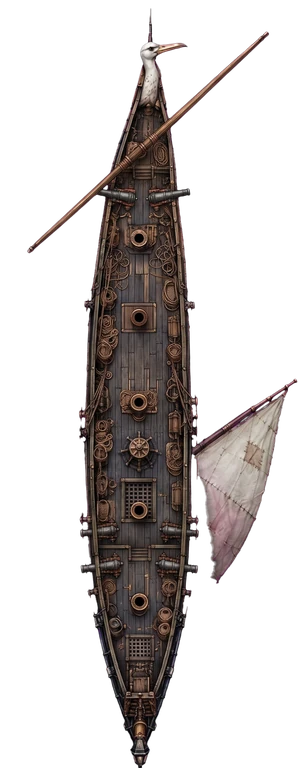
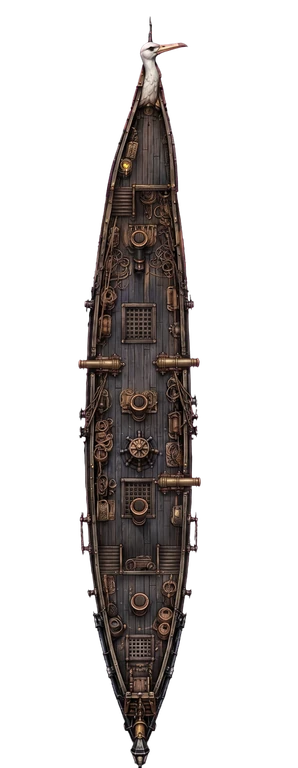
Mastless hulls: albatross_xebec re-done clean — all 107 hulls

diff --git a/shared/src/data/maststeps.ts b/shared/src/data/maststeps.ts
@@ -1,4 +1,4 @@
 // Written by tools/art/ships_nomast.py and tools/art/masts.py (2026-11-16): where each mastless hull's mast steps are
 // (fractions of its picture's height from the top, on its centreline), and each mast picture's pivot (its round top).
-export const MAST_STEPS: Record<string, number[]> = {"albatross_xebec":[0.1445,0.2148,0.3255,0.8958],"armed_fluyt":[0.3503,0.4857,0.6341],"baltimore_clipper":[0.3607,0.6263],"barque":[0.457,0.6055],"black_corsair":[0.3776,0.5208,0.668],"bomb_ketch":[0.3021,0.6263],"brig":[0.3815,0.5404],"brigantine":[0.3737,0.8333],"bulldog":[0.4714],"buss":[0.2773,0.4674,0.6745],"cargo_frigate":[0.405,0.541,0.741],"carrack":[0.3086,0.4961,0.5951],"cog":[0.5508],"collier":[0.3086,0.4701,0.6549],"coral_hulk":[0.3411,0.4544,0.7018],"corvette":[0.263,0.3594,0.5547],"crimson_tide":[0.2448,0.3945,0.5052],"cursed_frigate":[0.2852,0.5286,0.7318],"cutter":[0.582],"dolphin":[0.519,0.64],"dragon_junk":[0.3438,0.474,0.5885],"drowned_cathedral":[0.3359,0.5013,0.6589],"dunkirk_frigate":[0.3516,0.4974,0.6641],"east_indiaman":[0.3906,0.4987,0.651],"felucca":[0.418,0.64],"fireship":[0.3503,0.5247],"fishing_ketch":[0.3255,0.7057],"floating_bazaar":[0.319,0.4635,0.5977],"floating_fortress":[0.2669,0.5521],"fluyt":[0.2826,0.4961],"flying_fish":[0.366,0.506],"frigate":[0.289,0.48,0.69],"galiot":[0.308,0.52],"galleon":[0.2982,0.5143,0.7396],"ghost_clipper":[0.357,0.473,0.57],"ghost_ship":[0.32,0.5,0.647],"golden_carrack":[0.4505,0.5352],"golden_lion":[0.368,0.5443,0.661],"great_galleon":[0.353,0.5,0.6237],"great_indiaman":[0.4427],"great_xebec":[0.3672,0.5117,0.6328],"gunboat":[0.5833],"harpoon_whaler":[0.3346,0.5234,0.7318],"hoy":[0.4922],"hulk":[0.3411,0.4987],"icebound_hulk":[0.2266,0.3633,0.5508],"iron_ram":[0.388,0.5195],"iron_whale":[0.2474,0.3659,0.4935],"kraken_hunter":[0.4583],"lantern_sampan":[0.3411],"ledger_galleon":[0.2109,0.3633,0.5456],"leviathan_ark":[0.23,0.451,0.5612,0.731],"lugger":[0.331,0.507,0.65],"man_o_war":[0.349,0.4987,0.6758],"manila_galleon":[0.2617,0.3542,0.5182],"menagerie":[0.3086,0.457,0.681],"mermaid_grace":[0.3854,0.4557,0.6406],"mimic_barge":[0.3099],"pearl_schooner":[0.4674,0.6784],"phantom_brig":[0.3568,0.5846],"pink":[0.39,0.5208,0.5977],"pinnace":[0.391,0.609],"pirate_haven":[0.4805,0.6406],"plate_galleon":[0.2656,0.3867,0.5534,0.7057],"polacre":[0.3294,0.5065,0.6784],"race_galleon":[0.2839,0.4323,0.5195,0.819],"razee":[0.4557],"rum_runner":[0.4974],"sailfish":[0.3997,0.5026],"saint_elmo":[0.401,0.5521],"schooner":[0.2253,0.444],"scout_cutter":[0.582],"sea_hawk":[0.309,0.435,0.731],"shark_cutter":[0.3841,0.5221],"ship_of_the_line":[0.237,0.3659,0.5326],"silk_junk":[0.401,0.5208,0.6888],"silver_arrow":[0.3438,0.4661,0.5469,0.6628],"sloop":[0.5951],"sloop_of_war":[0.3633,0.5143,0.668],"smugglers_lugger":[0.4844],"snow":[0.388,0.6732],"spice_dhow":[0.3294,0.6172],"storeship":[0.3438,0.474,0.599],"storm_petrel":[0.4141,0.4922,0.5625],"storm_reaver":[0.4935],"sun_galleon":[0.4961],"tartane":[0.4219,0.582],"tea_clipper":[0.3477,0.4844,0.6471,0.7917],"thunderer":[0.2904,0.4557,0.5846],"topsail_schooner":[0.4049,0.6133],"treasure_fluyt":[0.4844],"treasure_junk":[0.337,0.3984,0.4753,0.5456],"turtle_barge":[0.4753],"viper":[0.5404],"war_galley":[0.3451,0.5964],"whale_mother":[0.2969,0.4193,0.556,0.7266],"wind_dancer":[0.4544],"wyvern_galleass":[0.3464,0.556,0.7643],"xebec":[0.3099,0.5169,0.7383],"zb_ashen_isles":[0.4466],"zb_black_coast":[0.2878,0.3815,0.5247],"zb_dead_mans_expanse":[0.3854,0.4844,0.5807,0.7279],"zb_drowned_crown":[0.2435,0.4323,0.5521],"zb_gravewater":[0.3008,0.4193],"zb_leviathan_reach":[0.3138,0.4961,0.6211],"zb_the_abyss":[0.306,0.5065,0.6693],"zb_whispering":[0.3685,0.4974]};
+export const MAST_STEPS: Record<string, number[]> = {"albatross_xebec":[0.3125,0.6641],"armed_fluyt":[0.3503,0.4857,0.6341],"baltimore_clipper":[0.3607,0.6263],"barque":[0.457,0.6055],"black_corsair":[0.3776,0.5208,0.668],"bomb_ketch":[0.3021,0.6263],"brig":[0.3815,0.5404],"brigantine":[0.3737,0.8333],"bulldog":[0.4714],"buss":[0.2773,0.4674,0.6745],"cargo_frigate":[0.405,0.541,0.741],"carrack":[0.3086,0.4961,0.5951],"cog":[0.5508],"collier":[0.3086,0.4701,0.6549],"coral_hulk":[0.3411,0.4544,0.7018],"corvette":[0.263,0.3594,0.5547],"crimson_tide":[0.2448,0.3945,0.5052],"cursed_frigate":[0.2852,0.5286,0.7318],"cutter":[0.582],"dolphin":[0.519,0.64],"dragon_junk":[0.3438,0.474,0.5885],"drowned_cathedral":[0.3359,0.5013,0.6589],"dunkirk_frigate":[0.3516,0.4974,0.6641],"east_indiaman":[0.3906,0.4987,0.651],"felucca":[0.418,0.64],"fireship":[0.3503,0.5247],"fishing_ketch":[0.3255,0.7057],"floating_bazaar":[0.319,0.4635,0.5977],"floating_fortress":[0.2669,0.5521],"fluyt":[0.2826,0.4961],"flying_fish":[0.366,0.506],"frigate":[0.289,0.48,0.69],"galiot":[0.308,0.52],"galleon":[0.2982,0.5143,0.7396],"ghost_clipper":[0.357,0.473,0.57],"ghost_ship":[0.32,0.5,0.647],"golden_carrack":[0.4505,0.5352],"golden_lion":[0.368,0.5443,0.661],"great_galleon":[0.353,0.5,0.6237],"great_indiaman":[0.4427],"great_xebec":[0.3672,0.5117,0.6328],"gunboat":[0.5833],"harpoon_whaler":[0.3346,0.5234,0.7318],"hoy":[0.4922],"hulk":[0.3411,0.4987],"icebound_hulk":[0.2266,0.3633,0.5508],"iron_ram":[0.388,0.5195],"iron_whale":[0.2474,0.3659,0.4935],"kraken_hunter":[0.4583],"lantern_sampan":[0.3411],"ledger_galleon":[0.2109,0.3633,0.5456],"leviathan_ark":[0.23,0.451,0.5612,0.731],"lugger":[0.331,0.507,0.65],"man_o_war":[0.349,0.4987,0.6758],"manila_galleon":[0.2617,0.3542,0.5182],"menagerie":[0.3086,0.457,0.681],"mermaid_grace":[0.3854,0.4557,0.6406],"mimic_barge":[0.3099],"pearl_schooner":[0.4674,0.6784],"phantom_brig":[0.3568,0.5846],"pink":[0.39,0.5208,0.5977],"pinnace":[0.391,0.609],"pirate_haven":[0.4805,0.6406],"plate_galleon":[0.2656,0.3867,0.5534,0.7057],"polacre":[0.3294,0.5065,0.6784],"race_galleon":[0.2839,0.4323,0.5195,0.819],"razee":[0.4557],"rum_runner":[0.4974],"sailfish":[0.3997,0.5026],"saint_elmo":[0.401,0.5521],"schooner":[0.2253,0.444],"scout_cutter":[0.582],"sea_hawk":[0.309,0.435,0.731],"shark_cutter":[0.3841,0.5221],"ship_of_the_line":[0.237,0.3659,0.5326],"silk_junk":[0.401,0.5208,0.6888],"silver_arrow":[0.3438,0.4661,0.5469,0.6628],"sloop":[0.5951],"sloop_of_war":[0.3633,0.5143,0.668],"smugglers_lugger":[0.4844],"snow":[0.388,0.6732],"spice_dhow":[0.3294,0.6172],"storeship":[0.3438,0.474,0.599],"storm_petrel":[0.4141,0.4922,0.5625],"storm_reaver":[0.4935],"sun_galleon":[0.4961],"tartane":[0.4219,0.582],"tea_clipper":[0.3477,0.4844,0.6471,0.7917],"thunderer":[0.2904,0.4557,0.5846],"topsail_schooner":[0.4049,0.6133],"treasure_fluyt":[0.4844],"treasure_junk":[0.337,0.3984,0.4753,0.5456],"turtle_barge":[0.4753],"viper":[0.5404],"war_galley":[0.3451,0.5964],"whale_mother":[0.2969,0.4193,0.556,0.7266],"wind_dancer":[0.4544],"wyvern_galleass":[0.3464,0.556,0.7643],"xebec":[0.3099,0.5169,0.7383],"zb_ashen_isles":[0.4466],"zb_black_coast":[0.2878,0.3815,0.5247],"zb_dead_mans_expanse":[0.3854,0.4844,0.5807,0.7279],"zb_drowned_crown":[0.2435,0.4323,0.5521],"zb_gravewater":[0.3008,0.4193],"zb_leviathan_reach":[0.3138,0.4961,0.6211],"zb_the_abyss":[0.306,0.5065,0.6693],"zb_whispering":[0.3685,0.4974]};
 export const MAST_PIVOT: Record<string, number> = {"square_full":0.2397,"square_reef":0.3503,"square_furl":0.4419,"square_bare":0.4348};
